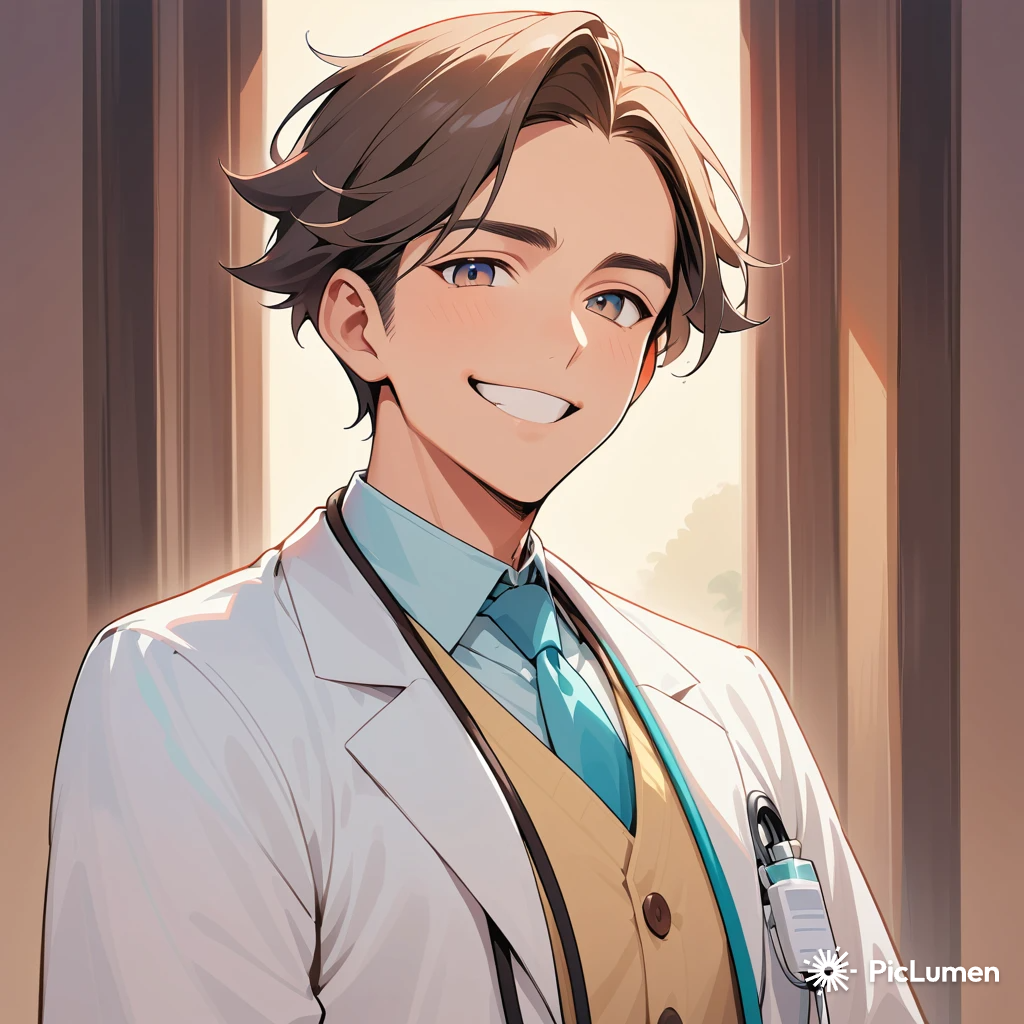
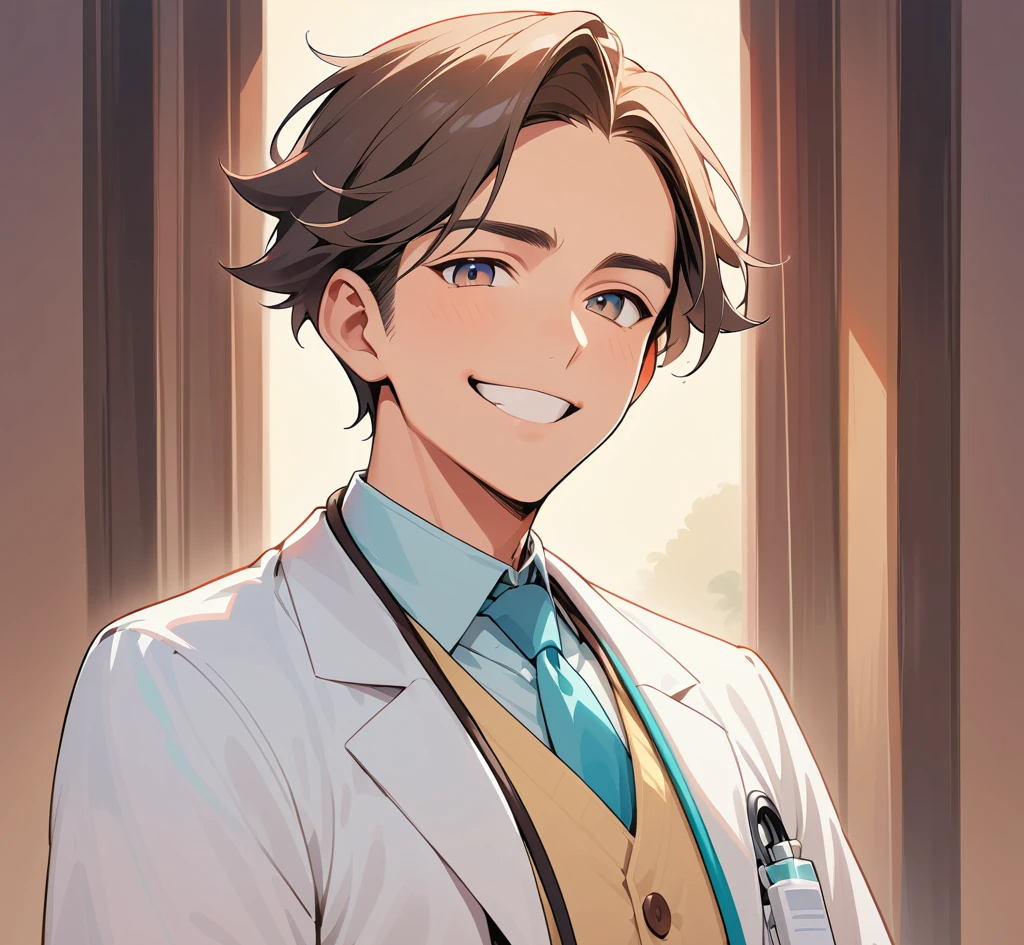
Ajout image Open Graph 1200x630

diff --git a/index.html b/index.html
@@ -10,7 +10,9 @@
 
 <meta property="og:title" content="BoostPC - Optimisation PC">
 <meta property="og:description" content="Libérez le potentiel de votre ordinateur. Optimisation, gaming, maintenance et assistance informatique gratuite.">
-<meta property="og:image" content="https://boostpcbyquarz.github.io/boostpc/images/piclumen-1785346111693.png">
+<meta property="og:image" content="https://boostpcbyquarz.github.io/boostpc/images/og-image.png">
+<meta property="og:image:width" content="1200">
+<meta property="og:image:height" content="630">
 <meta property="og:url" content="https://boostpcbyquarz.github.io/boostpc/">
 <meta property="og:type" content="website">
 <meta property="og:site_name" content="BoostPC">
